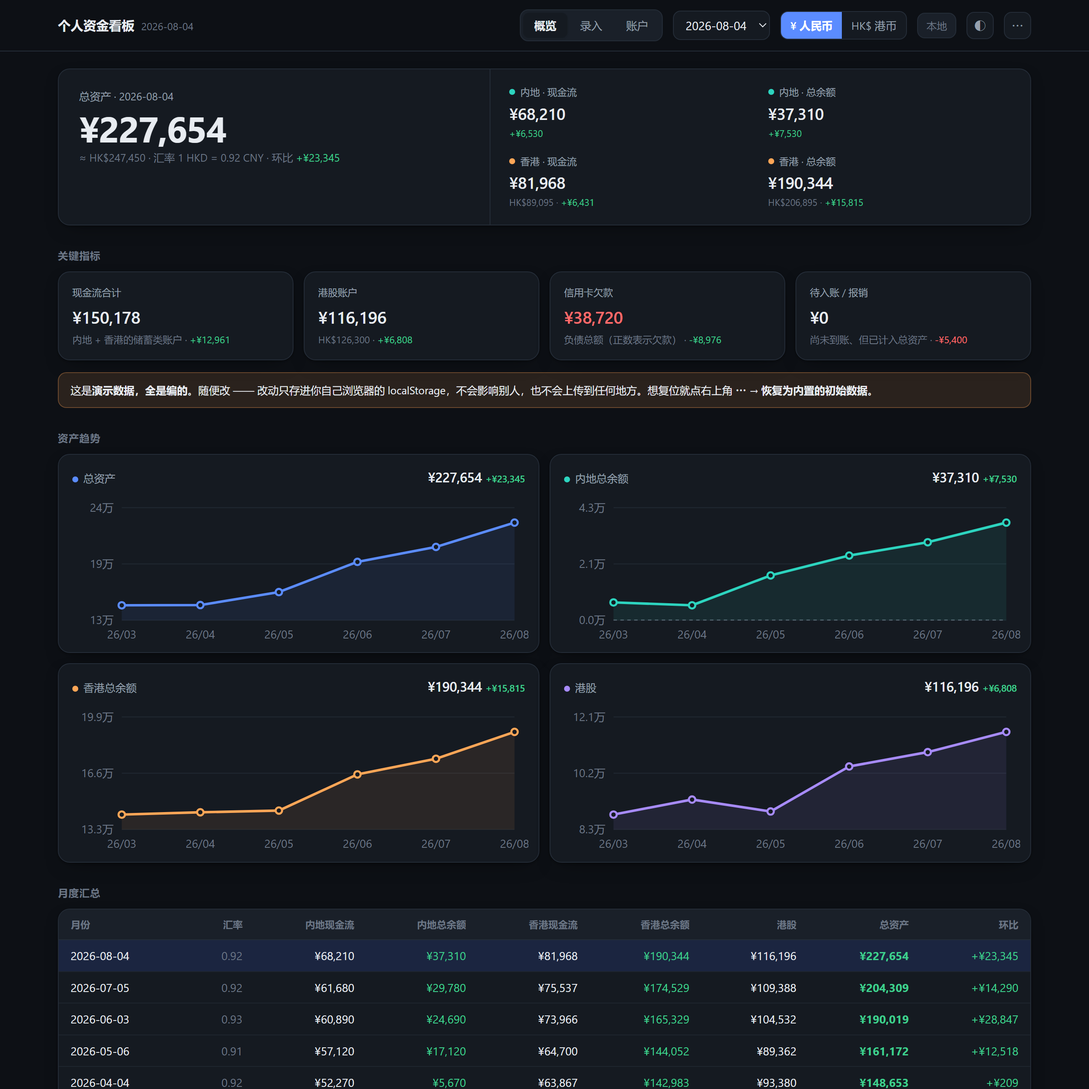
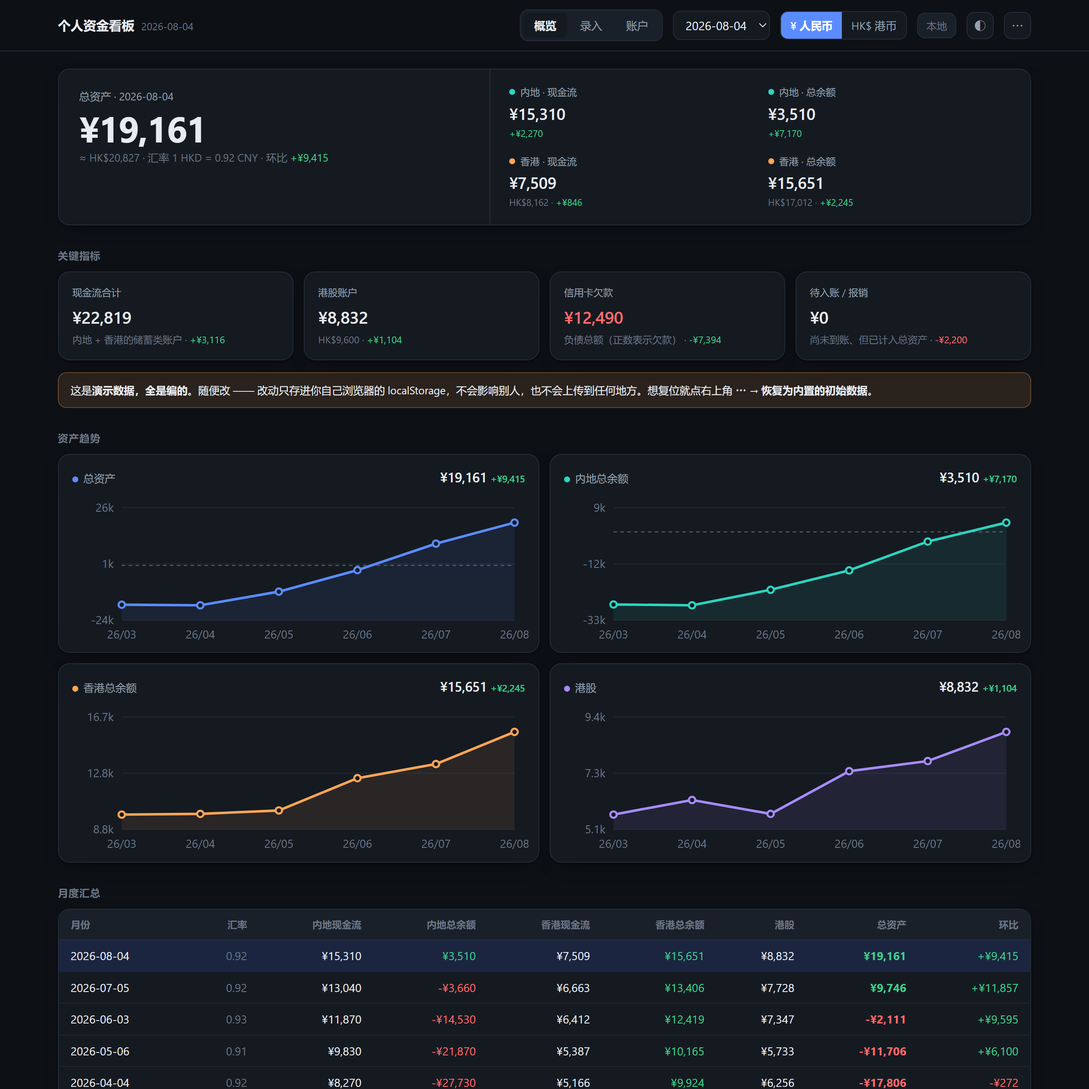
演示数据调到贴近真实的量级，y 轴刻度改用 k
原来的演示数据 14.8 万 → 22.8 万，量级偏夸张。改成总资产
-17,806 ~ +19,161，走「一路还债、中途转正」的弧线 —— 顺带能
展示跨零的虚线和负数配色。信用卡额度同步缩小（招行 40000 /
中信 20000 / 花呗 12000），不然欠款和额度不成比例。

y 轴刻度从「万」改成 k，小数位跟着区间走：>10k 不要小数，
1k~10k 给一位，全在 1000 以内退回普通数字。

同时修掉一个刻度格式 bug：原来判断用不用大单位只看最大值，
所以「内地总余额」（最大 9,133、最小 -33,353）被当成小数值，
刻度显示成 9,133 / -12,110 / -33,353，和其它三张不一致。
改成看离零最远的那个值。

diff --git a/docs/index.html b/docs/index.html
@@ -163,7 +163,7 @@ dialog::backdrop{background:rgba(8,10,14,.5)}
 <dialog id="dlg"><div class="dlg" id="dlgBody"></div></dialog>
 <input type="file" id="fileInput" accept="application/json" style="display:none">
 <script>
-window.SEED = {"version":1,"baseCcy":"CNY","demo":true,"accounts":[{"id":"cn_sv_boc","name":"中国银行","region":"cn","kind":"savings","ccy":"CNY","limit":null,"note":"","active":true},{"id":"cn_sv_icbc","name":"工商银行","region":"cn","kind":"savings","ccy":"CNY","limit":null,"note":"","active":true},{"id":"cn_sv_cmb","name":"招商银行","region":"cn","kind":"savings","ccy":"CNY","limit":null,"note":"","active":true},{"id":"cn_sv_ccb","name":"建设银行","region":"cn","kind":"savings","ccy":"CNY","limit":null,"note":"","active":true},{"id":"cn_sv_wechat","name":"微信零钱","region":"cn","kind":"savings","ccy":"CNY","limit":null,"note":"","active":true},{"id":"cn_sv_alipay","name":"支付宝","region":"cn","kind":"savings","ccy":"CNY","limit":null,"note":"","active":true},{"id":"cn_cc_cmb","name":"招行 信用卡","region":"cn","kind":"credit","ccy":"CNY","limit":80000,"note":"填了额度就能用「可用额度」反推欠款","active":true},{"id":"cn_cc_citic","name":"中信 信用卡","region":"cn","kind":"credit","ccy":"CNY","limit":50000,"note":"","active":true},{"id":"cn_cc_huabei","name":"花呗","region":"cn","kind":"credit","ccy":"CNY","limit":28000,"note":"","active":true},{"id":"cn_rc_pending","name":"待入账 / 报销","region":"cn","kind":"receivable","ccy":"CNY","limit":null,"note":"已花出去、等着报销回来的钱","active":true},{"id":"hk_sv_hsbc","name":"汇丰","region":"hk","kind":"savings","ccy":"BOTH","limit":null,"note":"","active":true},{"id":"hk_sv_bochk","name":"中银香港","region":"hk","kind":"savings","ccy":"BOTH","limit":null,"note":"","active":true},{"id":"hk_sv_hangseng","name":"恒生","region":"hk","kind":"savings","ccy":"BOTH","limit":null,"note":"","active":true},{"id":"hk_sv_za","name":"ZA Bank","region":"hk","kind":"savings","ccy":"BOTH","limit":null,"note":"","active":true},{"id":"hk_sv_octopus","name":"八达通","region":"hk","kind":"savings","ccy":"BOTH","limit":null,"note":"","active":true},{"id":"hk_sv_payme","name":"PayMe","region":"hk","kind":"savings","ccy":"BOTH","limit":null,"note":"","active":true},{"id":"hk_cc_hsbc","name":"汇丰 信用卡","region":"hk","kind":"credit","ccy":"BOTH","limit":null,"note":"","active":true},{"id":"hk_cc_bochk","name":"中银 信用卡","region":"hk","kind":"credit","ccy":"BOTH","limit":null,"note":"","active":true},{"id":"hk_iv_stock","name":"港股账户","region":"hk","kind":"invest","ccy":"HKD","limit":null,"note":"每月手动填入市值","active":true}],"months":[{"id":"2026-03","date":"2026-03-05","rate":0.92,"values":{"cn_sv_boc":{"hkd":0,"cny":12000},"cn_sv_icbc":{"hkd":0,"cny":8500},"cn_sv_cmb":{"hkd":0,"cny":26000},"cn_sv_ccb":{"hkd":0,"cny":4200},"cn_sv_wechat":{"hkd":0,"cny":1800},"cn_sv_alipay":{"hkd":0,"cny":900},"cn_cc_cmb":{"hkd":0,"cny":-32000},"cn_cc_citic":{"hkd":0,"cny":-8600},"cn_cc_huabei":{"hkd":0,"cny":-6000},"cn_rc_pending":{"hkd":0,"cny":0},"hk_sv_hsbc":{"hkd":42000,"cny":3000},"hk_sv_bochk":{"hkd":15000,"cny":0},"hk_sv_hangseng":{"hkd":6800,"cny":0},"hk_sv_za":{"hkd":2400,"cny":0},"hk_sv_octopus":{"hkd":380,"cny":0},"hk_sv_payme":{"hkd":120,"cny":0},"hk_cc_hsbc":{"hkd":-9800,"cny":0},"hk_cc_bochk":{"hkd":-2200,"cny":0},"hk_iv_stock":{"hkd":96000,"cny":0}},"carried":[]},{"id":"2026-04","date":"2026-04-04","rate":0.92,"values":{"cn_sv_boc":{"hkd":0,"cny":12400},"cn_sv_icbc":{"hkd":0,"cny":8500},"cn_sv_cmb":{"hkd":0,"cny":24800},"cn_sv_ccb":{"hkd":0,"cny":4260},"cn_sv_wechat":{"hkd":0,"cny":960},"cn_sv_alipay":{"hkd":0,"cny":1350},"cn_cc_cmb":{"hkd":0,"cny":-38600},"cn_cc_citic":{"hkd":0,"cny":-5200},"cn_cc_huabei":{"hkd":0,"cny":-6000},"cn_rc_pending":{"hkd":0,"cny":3200},"hk_sv_hsbc":{"hkd":39500,"cny":3000},"hk_sv_bochk":{"hkd":16200,"cny":0},"hk_sv_hangseng":{"hkd":6800,"cny":0},"hk_sv_za":{"hkd":3100,"cny":0},"hk_sv_octopus":{"hkd":220,"cny":0},"hk_sv_payme":{"hkd":340,"cny":0},"hk_cc_hsbc":{"hkd":-12400,"cny":-1200},"hk_cc_bochk":{"hkd":-1800,"cny":0},"hk_iv_stock":{"hkd":101500,"cny":0}},"carried":[]},{"id":"2026-05","date":"2026-05-06","rate":0.91,"values":{"cn_sv_boc":{"hkd":0,"cny":13100},"cn_sv_icbc":{"hkd":0,"cny":9200},"cn_sv_cmb":{"hkd":0,"cny":27600},"cn_sv_ccb":{"hkd":0,"cny":4260},"cn_sv_wechat":{"hkd":0,"cny":2340},"cn_sv_alipay":{"hkd":0,"cny":620},"cn_cc_cmb":{"hkd":0,"cny":-29400},"cn_cc_citic":{"hkd":0,"cny":-9800},"cn_cc_huabei":{"hkd":0,"cny":-4000},"cn_rc_pending":{"hkd":0,"cny":3200},"hk_sv_hsbc":{"hkd":44800,"cny":1500},"hk_sv_bochk":{"hkd":14100,"cny":0},"hk_sv_hangseng":{"hkd":7150,"cny":0},"hk_sv_za":{"hkd":2850,"cny":0},"hk_sv_octopus":{"hkd":460,"cny":0},"hk_sv_payme":{"hkd":90,"cny":0},"hk_cc_hsbc":{"hkd":-7600,"cny":0},"hk_cc_bochk":{"hkd":-3400,"cny":0},"hk_iv_stock":{"hkd":98200,"cny":0}},"carried":[]},{"id":"2026-06","date":"2026-06-03","rate":0.93,"values":{"cn_sv_boc":{"hkd":0,"cny":13100},"cn_sv_icbc":{"hkd":0,"cny":9200},"cn_sv_cmb":{"hkd":0,"cny":31200},"cn_sv_ccb":{"hkd":0,"cny":4390},"cn_sv_wechat":{"hkd":0,"cny":1120},"cn_sv_alipay":{"hkd":0,"cny":1880},"cn_cc_cmb":{"hkd":0,"cny":-24800},"cn_cc_citic":{"hkd":0,"cny":-7400},"cn_cc_huabei":{"hkd":0,"cny":-4000},"cn_rc_pending":{"hkd":0,"cny":0},"hk_sv_hsbc":{"hkd":48200,"cny":1500},"hk_sv_bochk":{"hkd":17800,"cny":0},"hk_sv_hangseng":{"hkd":7150,"cny":0},"hk_sv_za":{"hkd":4200,"cny":0},"hk_sv_octopus":{"hkd":310,"cny":0},"hk_sv_payme":{"hkd":260,"cny":0},"hk_cc_hsbc":{"hkd":-11200,"cny":-800},"hk_cc_bochk":{"hkd":-2100,"cny":0},"hk_iv_stock":{"hkd":112400,"cny":0}},"carried":[]},{"id":"2026-07","date":"2026-07-05","rate":0.92,"values":{"cn_sv_boc":{"hkd":0,"cny":14200},"cn_sv_icbc":{"hkd":0,"cny":9200},"cn_sv_cmb":{"hkd":0,"cny":30100},"cn_sv_ccb":{"hkd":0,"cny":4390},"cn_sv_wechat":{"hkd":0,"cny":3050},"cn_sv_alipay":{"hkd":0,"cny":740},"cn_cc_cmb":{"hkd":0,"cny":-31200},"cn_cc_citic":{"hkd":0,"cny":-4100},"cn_cc_huabei":{"hkd":0,"cny":-2000},"cn_rc_pending":{"hkd":0,"cny":5400},"hk_sv_hsbc":{"hkd":46100,"cny":4200},"hk_sv_bochk":{"hkd":19400,"cny":0},"hk_sv_hangseng":{"hkd":7420,"cny":0},"hk_sv_za":{"hkd":3900,"cny":0},"hk_sv_octopus":{"hkd":540,"cny":0},"hk_sv_payme":{"hkd":180,"cny":0},"hk_cc_hsbc":{"hkd":-8400,"cny":0},"hk_cc_bochk":{"hkd":-2900,"cny":0},"hk_iv_stock":{"hkd":118900,"cny":0}},"carried":[]},{"id":"2026-08","date":"2026-08-04","rate":0.92,"values":{"cn_sv_boc":{"hkd":0,"cny":15600},"cn_sv_icbc":{"hkd":0,"cny":10400},"cn_sv_cmb":{"hkd":0,"cny":34800},"cn_sv_ccb":{"hkd":0,"cny":4520},"cn_sv_wechat":{"hkd":0,"cny":1680},"cn_sv_alipay":{"hkd":0,"cny":1210},"cn_cc_cmb":{"hkd":0,"cny":-22600},"cn_cc_citic":{"hkd":0,"cny":-6300},"cn_cc_huabei":{"hkd":0,"cny":-2000},"cn_rc_pending":{"hkd":0,"cny":0},"hk_sv_hsbc":{"hkd":52400,"cny":4200},"hk_sv_bochk":{"hkd":18900,"cny":0},"hk_sv_hangseng":{"hkd":7420,"cny":0},"hk_sv_za":{"hkd":5100,"cny":0},"hk_sv_octopus":{"hkd":290,"cny":0},"hk_sv_payme":{"hkd":420,"cny":0},"hk_cc_hsbc":{"hkd":-6900,"cny":0},"hk_cc_bochk":{"hkd":-1600,"cny":0},"hk_iv_stock":{"hkd":126300,"cny":0}},"carried":[]}]};
+window.SEED = {"version":1,"baseCcy":"CNY","demo":true,"accounts":[{"id":"cn_sv_boc","name":"中国银行","region":"cn","kind":"savings","ccy":"CNY","limit":null,"note":"","active":true},{"id":"cn_sv_icbc","name":"工商银行","region":"cn","kind":"savings","ccy":"CNY","limit":null,"note":"","active":true},{"id":"cn_sv_cmb","name":"招商银行","region":"cn","kind":"savings","ccy":"CNY","limit":null,"note":"","active":true},{"id":"cn_sv_ccb","name":"建设银行","region":"cn","kind":"savings","ccy":"CNY","limit":null,"note":"","active":true},{"id":"cn_sv_wechat","name":"微信零钱","region":"cn","kind":"savings","ccy":"CNY","limit":null,"note":"","active":true},{"id":"cn_sv_alipay","name":"支付宝","region":"cn","kind":"savings","ccy":"CNY","limit":null,"note":"","active":true},{"id":"cn_cc_cmb","name":"招行 信用卡","region":"cn","kind":"credit","ccy":"CNY","limit":40000,"note":"填了额度就能用「可用额度」反推欠款","active":true},{"id":"cn_cc_citic","name":"中信 信用卡","region":"cn","kind":"credit","ccy":"CNY","limit":20000,"note":"","active":true},{"id":"cn_cc_huabei","name":"花呗","region":"cn","kind":"credit","ccy":"CNY","limit":12000,"note":"","active":true},{"id":"cn_rc_pending","name":"待入账 / 报销","region":"cn","kind":"receivable","ccy":"CNY","limit":null,"note":"已花出去、等着报销回来的钱","active":true},{"id":"hk_sv_hsbc","name":"汇丰","region":"hk","kind":"savings","ccy":"BOTH","limit":null,"note":"","active":true},{"id":"hk_sv_bochk","name":"中银香港","region":"hk","kind":"savings","ccy":"BOTH","limit":null,"note":"","active":true},{"id":"hk_sv_hangseng","name":"恒生","region":"hk","kind":"savings","ccy":"BOTH","limit":null,"note":"","active":true},{"id":"hk_sv_za","name":"ZA Bank","region":"hk","kind":"savings","ccy":"BOTH","limit":null,"note":"","active":true},{"id":"hk_sv_octopus","name":"八达通","region":"hk","kind":"savings","ccy":"BOTH","limit":null,"note":"","active":true},{"id":"hk_sv_payme","name":"PayMe","region":"hk","kind":"savings","ccy":"BOTH","limit":null,"note":"","active":true},{"id":"hk_cc_hsbc","name":"汇丰 信用卡","region":"hk","kind":"credit","ccy":"BOTH","limit":null,"note":"","active":true},{"id":"hk_cc_bochk","name":"中银 信用卡","region":"hk","kind":"credit","ccy":"BOTH","limit":null,"note":"","active":true},{"id":"hk_iv_stock","name":"港股账户","region":"hk","kind":"invest","ccy":"HKD","limit":null,"note":"每月手动填入市值","active":true}],"months":[{"id":"2026-03","date":"2026-03-05","rate":0.92,"values":{"cn_sv_boc":{"hkd":0,"cny":2100},"cn_sv_icbc":{"hkd":0,"cny":1200},"cn_sv_cmb":{"hkd":0,"cny":4200},"cn_sv_ccb":{"hkd":0,"cny":800},"cn_sv_wechat":{"hkd":0,"cny":320},"cn_sv_alipay":{"hkd":0,"cny":170},"cn_cc_cmb":{"hkd":0,"cny":-26000},"cn_cc_citic":{"hkd":0,"cny":-4200},"cn_cc_huabei":{"hkd":0,"cny":-6000},"cn_rc_pending":{"hkd":0,"cny":0},"hk_sv_hsbc":{"hkd":3200,"cny":400},"hk_sv_bochk":{"hkd":1200,"cny":0},"hk_sv_hangseng":{"hkd":560,"cny":0},"hk_sv_za":{"hkd":210,"cny":0},"hk_sv_octopus":{"hkd":70,"cny":0},"hk_sv_payme":{"hkd":20,"cny":0},"hk_cc_hsbc":{"hkd":-950,"cny":0},"hk_cc_bochk":{"hkd":-210,"cny":0},"hk_iv_stock":{"hkd":6200,"cny":0}},"carried":[]},{"id":"2026-04","date":"2026-04-04","rate":0.92,"values":{"cn_sv_boc":{"hkd":0,"cny":2400},"cn_sv_icbc":{"hkd":0,"cny":1200},"cn_sv_cmb":{"hkd":0,"cny":3400},"cn_sv_ccb":{"hkd":0,"cny":830},"cn_sv_wechat":{"hkd":0,"cny":180},"cn_sv_alipay":{"hkd":0,"cny":260},"cn_cc_cmb":{"hkd":0,"cny":-28600},"cn_cc_citic":{"hkd":0,"cny":-2800},"cn_cc_huabei":{"hkd":0,"cny":-6000},"cn_rc_pending":{"hkd":0,"cny":1400},"hk_sv_hsbc":{"hkd":2900,"cny":400},"hk_sv_bochk":{"hkd":1350,"cny":0},"hk_sv_hangseng":{"hkd":560,"cny":0},"hk_sv_za":{"hkd":270,"cny":0},"hk_sv_octopus":{"hkd":40,"cny":0},"hk_sv_payme":{"hkd":60,"cny":0},"hk_cc_hsbc":{"hkd":-1240,"cny":-200},"hk_cc_bochk":{"hkd":-170,"cny":0},"hk_iv_stock":{"hkd":6800,"cny":0}},"carried":[]},{"id":"2026-05","date":"2026-05-06","rate":0.91,"values":{"cn_sv_boc":{"hkd":0,"cny":2000},"cn_sv_icbc":{"hkd":0,"cny":1600},"cn_sv_cmb":{"hkd":0,"cny":4800},"cn_sv_ccb":{"hkd":0,"cny":830},"cn_sv_wechat":{"hkd":0,"cny":480},"cn_sv_alipay":{"hkd":0,"cny":120},"cn_cc_cmb":{"hkd":0,"cny":-24000},"cn_cc_citic":{"hkd":0,"cny":-5100},"cn_cc_huabei":{"hkd":0,"cny":-4000},"cn_rc_pending":{"hkd":0,"cny":1400},"hk_sv_hsbc":{"hkd":3600,"cny":200},"hk_sv_bochk":{"hkd":1150,"cny":0},"hk_sv_hangseng":{"hkd":610,"cny":0},"hk_sv_za":{"hkd":240,"cny":0},"hk_sv_octopus":{"hkd":90,"cny":0},"hk_sv_payme":{"hkd":10,"cny":0},"hk_cc_hsbc":{"hkd":-720,"cny":0},"hk_cc_bochk":{"hkd":-330,"cny":0},"hk_iv_stock":{"hkd":6300,"cny":0}},"carried":[]},{"id":"2026-06","date":"2026-06-03","rate":0.93,"values":{"cn_sv_boc":{"hkd":0,"cny":2900},"cn_sv_icbc":{"hkd":0,"cny":1600},"cn_sv_cmb":{"hkd":0,"cny":5900},"cn_sv_ccb":{"hkd":0,"cny":880},"cn_sv_wechat":{"hkd":0,"cny":230},"cn_sv_alipay":{"hkd":0,"cny":360},"cn_cc_cmb":{"hkd":0,"cny":-19000},"cn_cc_citic":{"hkd":0,"cny":-3400},"cn_cc_huabei":{"hkd":0,"cny":-4000},"cn_rc_pending":{"hkd":0,"cny":0},"hk_sv_hsbc":{"hkd":4100,"cny":200},"hk_sv_bochk":{"hkd":1500,"cny":0},"hk_sv_hangseng":{"hkd":610,"cny":0},"hk_sv_za":{"hkd":360,"cny":0},"hk_sv_octopus":{"hkd":60,"cny":0},"hk_sv_payme":{"hkd":50,"cny":0},"hk_cc_hsbc":{"hkd":-1080,"cny":-150},"hk_cc_bochk":{"hkd":-200,"cny":0},"hk_iv_stock":{"hkd":7900,"cny":0}},"carried":[]},{"id":"2026-07","date":"2026-07-05","rate":0.92,"values":{"cn_sv_boc":{"hkd":0,"cny":3400},"cn_sv_icbc":{"hkd":0,"cny":1600},"cn_sv_cmb":{"hkd":0,"cny":6400},"cn_sv_ccb":{"hkd":0,"cny":880},"cn_sv_wechat":{"hkd":0,"cny":610},"cn_sv_alipay":{"hkd":0,"cny":150},"cn_cc_cmb":{"hkd":0,"cny":-15000},"cn_cc_citic":{"hkd":0,"cny":-1900},"cn_cc_huabei":{"hkd":0,"cny":-2000},"cn_rc_pending":{"hkd":0,"cny":2200},"hk_sv_hsbc":{"hkd":3800,"cny":600},"hk_sv_bochk":{"hkd":1680,"cny":0},"hk_sv_hangseng":{"hkd":640,"cny":0},"hk_sv_za":{"hkd":330,"cny":0},"hk_sv_octopus":{"hkd":110,"cny":0},"hk_sv_payme":{"hkd":30,"cny":0},"hk_cc_hsbc":{"hkd":-800,"cny":0},"hk_cc_bochk":{"hkd":-270,"cny":0},"hk_iv_stock":{"hkd":8400,"cny":0}},"carried":[]},{"id":"2026-08","date":"2026-08-04","rate":0.92,"values":{"cn_sv_boc":{"hkd":0,"cny":4100},"cn_sv_icbc":{"hkd":0,"cny":2100},"cn_sv_cmb":{"hkd":0,"cny":7600},"cn_sv_ccb":{"hkd":0,"cny":920},"cn_sv_wechat":{"hkd":0,"cny":350},"cn_sv_alipay":{"hkd":0,"cny":240},"cn_cc_cmb":{"hkd":0,"cny":-7200},"cn_cc_citic":{"hkd":0,"cny":-2600},"cn_cc_huabei":{"hkd":0,"cny":-2000},"cn_rc_pending":{"hkd":0,"cny":0},"hk_sv_hsbc":{"hkd":4700,"cny":600},"hk_sv_bochk":{"hkd":1600,"cny":0},"hk_sv_hangseng":{"hkd":640,"cny":0},"hk_sv_za":{"hkd":440,"cny":0},"hk_sv_octopus":{"hkd":50,"cny":0},"hk_sv_payme":{"hkd":80,"cny":0},"hk_cc_hsbc":{"hkd":-600,"cny":0},"hk_cc_bochk":{"hkd":-150,"cny":0},"hk_iv_stock":{"hkd":9600,"cny":0}},"carried":[]}]};
 </script>
 <script>
 /* 个人资金看板
@@ -360,7 +360,7 @@ function miniChart(vals, labels, color) {
   if (mn === mx) { mn -= Math.abs(mn) * 0.1 || 1; mx += Math.abs(mx) * 0.1 || 1; }
   var pad = (mx - mn) * 0.18;
   mn -= pad; mx += pad;
-  var tick = tickFmt(mx - mn, mx);
+  var tick = tickFmt(mx - mn, mn, mx);
   var n = labels.length;
   var X = function (i) { return PL + (n <= 1 ? (W - PL - PR) / 2 : i * (W - PL - PR) / (n - 1)); };
   var Y = function (v) { return PT + (mx - v) / (mx - mn) * (H - PT - PB); };
@@ -394,14 +394,20 @@ function miniChart(vals, labels, color) {
     '<path d="' + area + '" fill="' + color + '" opacity=".09"/>' +
     '<path d="' + d + '" fill="none" stroke="' + color + '" stroke-width="2.2" stroke-linejoin="round" stroke-linecap="round"/>' + pts + '</svg>';
 }
-/* 刻度格式跟着区间走：区间小的时候还用「万」+1 位小数，三个刻度会显示成同一个数 */
-function tickFmt(span, mx) {
-  if (Math.abs(mx) < 10000) return function (v) { return Math.round(v).toLocaleString('zh-CN'); };
-  var dec = span >= 100000 ? 0 : span >= 10000 ? 1 : 2;
+/* y 轴刻度：以 k（千）为单位。
+   - 全都在一千以内就写普通数字，写成「0.5k」反而看不出差别；
+   - 区间小的时候多给一位小数，否则三个刻度会显示成同一个数。
+   判断用的是「离零最远的那个值」，不是最大值 —— 曲线整体为负时
+   最大值可能只有几千，但最小值是 -33k，那时候还是该用 k。 */
+function tickFmt(span, mn, mx) {
+  if (Math.max(Math.abs(mn), Math.abs(mx)) < 1000) {
+    return function (v) { return Math.round(v).toLocaleString('zh-CN'); };
+  }
+  var dec = span >= 10000 ? 0 : span >= 1000 ? 1 : 2;
   return function (v) {
-    var t = (v / 10000).toFixed(dec);
-    if (/^-0(\.0+)?$/.test(t)) t = t.slice(1);   // 别显示成「-0.0万」
-    return t + '万';
+    var t = (v / 1000).toFixed(dec);
+    if (/^-0(\.0+)?$/.test(t)) t = t.slice(1);   // 别显示成「-0.0k」
+    return t + 'k';
   };
 }
 

diff --git a/src/data/make-demo.js b/src/data/make-demo.js
@@ -3,6 +3,10 @@
  * 全是编的，只为让演示页面的图表有内容可看。数字写死不随机，
  * 这样每次构建产物一致，diff 才有意义。
  *
+ * 设计意图：总资产走一条「从欠着钱到还清转正」的弧线，
+ * 落在 -20000 ~ +20000 之间 —— 既贴近多数人的真实量级，
+ * 也能顺带展示跨零时那条虚线和负数配色。
+ *
  * 用法：node src/data/make-demo.js
  */
 const fs = require('fs');
@@ -11,35 +15,35 @@ const path = require('path');
 const MONTHS = ['2026-03-05', '2026-04-04', '2026-05-06', '2026-06-03', '2026-07-05', '2026-08-04'];
 const RATES = [0.92, 0.92, 0.91, 0.93, 0.92, 0.92];
 
-// 每个账户 6 个月的值。人民币账户填一列数；港币账户填 [港币, 港币里的人民币子账户]
+// 人民币账户填一列数；港币账户填 [港币, 港币账户里的人民币子账户]
 const CNY = {
-  cn_sv_boc: [12000, 12400, 13100, 13100, 14200, 15600],
-  cn_sv_icbc: [8500, 8500, 9200, 9200, 9200, 10400],
-  cn_sv_cmb: [26000, 24800, 27600, 31200, 30100, 34800],
-  cn_sv_ccb: [4200, 4260, 4260, 4390, 4390, 4520],
-  cn_sv_wechat: [1800, 960, 2340, 1120, 3050, 1680],
-  cn_sv_alipay: [900, 1350, 620, 1880, 740, 1210],
+  cn_sv_boc: [2100, 2400, 2000, 2900, 3400, 4100],
+  cn_sv_icbc: [1200, 1200, 1600, 1600, 1600, 2100],
+  cn_sv_cmb: [4200, 3400, 4800, 5900, 6400, 7600],
+  cn_sv_ccb: [800, 830, 830, 880, 880, 920],
+  cn_sv_wechat: [320, 180, 480, 230, 610, 350],
+  cn_sv_alipay: [170, 260, 120, 360, 150, 240],
 
-  cn_cc_cmb: [-32000, -38600, -29400, -24800, -31200, -22600],
-  cn_cc_citic: [-8600, -5200, -9800, -7400, -4100, -6300],
+  // 一路把欠款还下去
+  cn_cc_cmb: [-26000, -28600, -24000, -19000, -15000, -7200],
+  cn_cc_citic: [-4200, -2800, -5100, -3400, -1900, -2600],
   cn_cc_huabei: [-6000, -6000, -4000, -4000, -2000, -2000],
 
-  cn_rc_pending: [0, 3200, 3200, 0, 5400, 0]
+  cn_rc_pending: [0, 1400, 1400, 0, 2200, 0]
 };
 
-// [港币, 香港人民币]
 const HK = {
-  hk_sv_hsbc: [[42000, 3000], [39500, 3000], [44800, 1500], [48200, 1500], [46100, 4200], [52400, 4200]],
-  hk_sv_bochk: [[15000, 0], [16200, 0], [14100, 0], [17800, 0], [19400, 0], [18900, 0]],
-  hk_sv_hangseng: [[6800, 0], [6800, 0], [7150, 0], [7150, 0], [7420, 0], [7420, 0]],
-  hk_sv_za: [[2400, 0], [3100, 0], [2850, 0], [4200, 0], [3900, 0], [5100, 0]],
-  hk_sv_octopus: [[380, 0], [220, 0], [460, 0], [310, 0], [540, 0], [290, 0]],
-  hk_sv_payme: [[120, 0], [340, 0], [90, 0], [260, 0], [180, 0], [420, 0]],
+  hk_sv_hsbc: [[3200, 400], [2900, 400], [3600, 200], [4100, 200], [3800, 600], [4700, 600]],
+  hk_sv_bochk: [[1200, 0], [1350, 0], [1150, 0], [1500, 0], [1680, 0], [1600, 0]],
+  hk_sv_hangseng: [[560, 0], [560, 0], [610, 0], [610, 0], [640, 0], [640, 0]],
+  hk_sv_za: [[210, 0], [270, 0], [240, 0], [360, 0], [330, 0], [440, 0]],
+  hk_sv_octopus: [[70, 0], [40, 0], [90, 0], [60, 0], [110, 0], [50, 0]],
+  hk_sv_payme: [[20, 0], [60, 0], [10, 0], [50, 0], [30, 0], [80, 0]],
 
-  hk_cc_hsbc: [[-9800, 0], [-12400, -1200], [-7600, 0], [-11200, -800], [-8400, 0], [-6900, 0]],
-  hk_cc_bochk: [[-2200, 0], [-1800, 0], [-3400, 0], [-2100, 0], [-2900, 0], [-1600, 0]],
+  hk_cc_hsbc: [[-950, 0], [-1240, -200], [-720, 0], [-1080, -150], [-800, 0], [-600, 0]],
+  hk_cc_bochk: [[-210, 0], [-170, 0], [-330, 0], [-200, 0], [-270, 0], [-150, 0]],
 
-  hk_iv_stock: [[96000, 0], [101500, 0], [98200, 0], [112400, 0], [118900, 0], [126300, 0]]
+  hk_iv_stock: [[6200, 0], [6800, 0], [6300, 0], [7900, 0], [8400, 0], [9600, 0]]
 };
 
 const accounts = JSON.parse(fs.readFileSync(path.join(__dirname, 'accounts.json'), 'utf8'));
@@ -62,19 +66,35 @@ const months = MONTHS.map((date, i) => {
 
 fs.writeFileSync(path.join(__dirname, 'demo-months.json'), JSON.stringify(months, null, 1));
 
-// 顺手打印一下总资产，好确认曲线是不是好看
+// 打印各口径，确认曲线好看且总资产落在预期区间内
+const pad = n => Math.round(n).toLocaleString('zh-CN').padStart(8);
+let min = Infinity, max = -Infinity, prev = null;
+console.log('   日期        内地现金  内地总额   香港现金  香港总额     港股    总资产      环比');
 for (const m of months) {
-  let cash = 0, debt = 0, inv = 0, recv = 0;
+  let cnCash = 0, cnDebt = 0, cnRecv = 0, hkCash = 0, hkDebt = 0, inv = 0;
   for (const a of accounts) {
     const v = m.values[a.id];
     const rmb = v.hkd * m.rate + v.cny;
-    if (a.kind === 'savings') cash += rmb;
-    else if (a.kind === 'credit') debt += rmb;
-    else if (a.kind === 'invest') inv += v.hkd * m.rate;
-    else recv += rmb;
+    if (a.kind === 'invest') inv += v.hkd * m.rate;
+    else if (a.region === 'cn') {
+      if (a.kind === 'savings') cnCash += rmb;
+      else if (a.kind === 'credit') cnDebt += rmb;
+      else cnRecv += rmb;
+    } else {
+      if (a.kind === 'savings') hkCash += rmb;
+      else if (a.kind === 'credit') hkDebt += rmb;
+    }
   }
-  console.log(m.date, ' 现金 ' + Math.round(cash).toString().padStart(7),
-    ' 负债 ' + Math.round(debt).toString().padStart(7),
-    ' 港股 ' + Math.round(inv).toString().padStart(7),
-    ' 总资产 ' + Math.round(cash + debt + inv + recv).toString().padStart(7));
+  const cnTotal = cnCash + cnDebt + cnRecv;
+  const hkTotal = hkCash + hkDebt + inv;
+  const total = cnTotal + hkTotal;
+  min = Math.min(min, total); max = Math.max(max, total);
+  console.log(' ' + m.date + pad(cnCash) + pad(cnTotal) + pad(hkCash) + pad(hkTotal) + pad(inv) + pad(total) +
+    (prev === null ? '         —' : pad(total - prev)));
+  prev = total;
+}
+console.log('\n总资产区间：' + Math.round(min).toLocaleString('zh-CN') + ' ~ ' + Math.round(max).toLocaleString('zh-CN'));
+if (min < -20000 || max > 20000) {
+  console.log('⚠  超出 -20000 ~ 20000 的目标区间');
+  process.exitCode = 1;
 }

diff --git a/server/public/index.html b/server/public/index.html
@@ -360,7 +360,7 @@ function miniChart(vals, labels, color) {
   if (mn === mx) { mn -= Math.abs(mn) * 0.1 || 1; mx += Math.abs(mx) * 0.1 || 1; }
   var pad = (mx - mn) * 0.18;
   mn -= pad; mx += pad;
-  var tick = tickFmt(mx - mn, mx);
+  var tick = tickFmt(mx - mn, mn, mx);
   var n = labels.length;
   var X = function (i) { return PL + (n <= 1 ? (W - PL - PR) / 2 : i * (W - PL - PR) / (n - 1)); };
   var Y = function (v) { return PT + (mx - v) / (mx - mn) * (H - PT - PB); };
@@ -394,14 +394,20 @@ function miniChart(vals, labels, color) {
     '<path d="' + area + '" fill="' + color + '" opacity=".09"/>' +
     '<path d="' + d + '" fill="none" stroke="' + color + '" stroke-width="2.2" stroke-linejoin="round" stroke-linecap="round"/>' + pts + '</svg>';
 }
-/* 刻度格式跟着区间走：区间小的时候还用「万」+1 位小数，三个刻度会显示成同一个数 */
-function tickFmt(span, mx) {
-  if (Math.abs(mx) < 10000) return function (v) { return Math.round(v).toLocaleString('zh-CN'); };
-  var dec = span >= 100000 ? 0 : span >= 10000 ? 1 : 2;
+/* y 轴刻度：以 k（千）为单位。
+   - 全都在一千以内就写普通数字，写成「0.5k」反而看不出差别；
+   - 区间小的时候多给一位小数，否则三个刻度会显示成同一个数。
+   判断用的是「离零最远的那个值」，不是最大值 —— 曲线整体为负时
+   最大值可能只有几千，但最小值是 -33k，那时候还是该用 k。 */
+function tickFmt(span, mn, mx) {
+  if (Math.max(Math.abs(mn), Math.abs(mx)) < 1000) {
+    return function (v) { return Math.round(v).toLocaleString('zh-CN'); };
+  }
+  var dec = span >= 10000 ? 0 : span >= 1000 ? 1 : 2;
   return function (v) {
-    var t = (v / 10000).toFixed(dec);
-    if (/^-0(\.0+)?$/.test(t)) t = t.slice(1);   // 别显示成「-0.0万」
-    return t + '万';
+    var t = (v / 1000).toFixed(dec);
+    if (/^-0(\.0+)?$/.test(t)) t = t.slice(1);   // 别显示成「-0.0k」
+    return t + 'k';
   };
 }
 

diff --git a/src/app.js b/src/app.js
@@ -192,7 +192,7 @@ function miniChart(vals, labels, color) {
   if (mn === mx) { mn -= Math.abs(mn) * 0.1 || 1; mx += Math.abs(mx) * 0.1 || 1; }
   var pad = (mx - mn) * 0.18;
   mn -= pad; mx += pad;
-  var tick = tickFmt(mx - mn, mx);
+  var tick = tickFmt(mx - mn, mn, mx);
   var n = labels.length;
   var X = function (i) { return PL + (n <= 1 ? (W - PL - PR) / 2 : i * (W - PL - PR) / (n - 1)); };
   var Y = function (v) { return PT + (mx - v) / (mx - mn) * (H - PT - PB); };
@@ -226,14 +226,20 @@ function miniChart(vals, labels, color) {
     '<path d="' + area + '" fill="' + color + '" opacity=".09"/>' +
     '<path d="' + d + '" fill="none" stroke="' + color + '" stroke-width="2.2" stroke-linejoin="round" stroke-linecap="round"/>' + pts + '</svg>';
 }
-/* 刻度格式跟着区间走：区间小的时候还用「万」+1 位小数，三个刻度会显示成同一个数 */
-function tickFmt(span, mx) {
-  if (Math.abs(mx) < 10000) return function (v) { return Math.round(v).toLocaleString('zh-CN'); };
-  var dec = span >= 100000 ? 0 : span >= 10000 ? 1 : 2;
+/* y 轴刻度：以 k（千）为单位。
+   - 全都在一千以内就写普通数字，写成「0.5k」反而看不出差别；
+   - 区间小的时候多给一位小数，否则三个刻度会显示成同一个数。
+   判断用的是「离零最远的那个值」，不是最大值 —— 曲线整体为负时
+   最大值可能只有几千，但最小值是 -33k，那时候还是该用 k。 */
+function tickFmt(span, mn, mx) {
+  if (Math.max(Math.abs(mn), Math.abs(mx)) < 1000) {
+    return function (v) { return Math.round(v).toLocaleString('zh-CN'); };
+  }
+  var dec = span >= 10000 ? 0 : span >= 1000 ? 1 : 2;
   return function (v) {
-    var t = (v / 10000).toFixed(dec);
-    if (/^-0(\.0+)?$/.test(t)) t = t.slice(1);   // 别显示成「-0.0万」
-    return t + '万';
+    var t = (v / 1000).toFixed(dec);
+    if (/^-0(\.0+)?$/.test(t)) t = t.slice(1);   // 别显示成「-0.0k」
+    return t + 'k';
   };
 }
 
